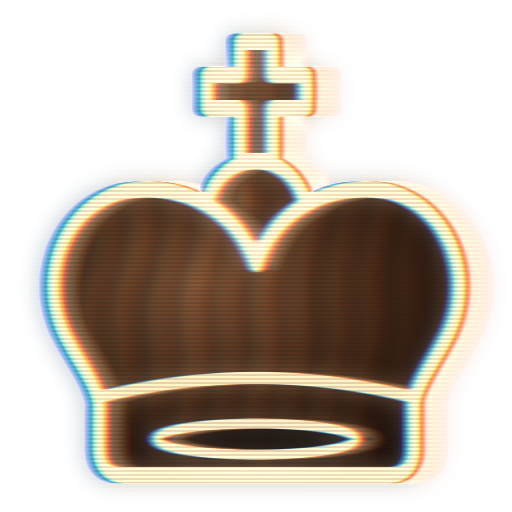
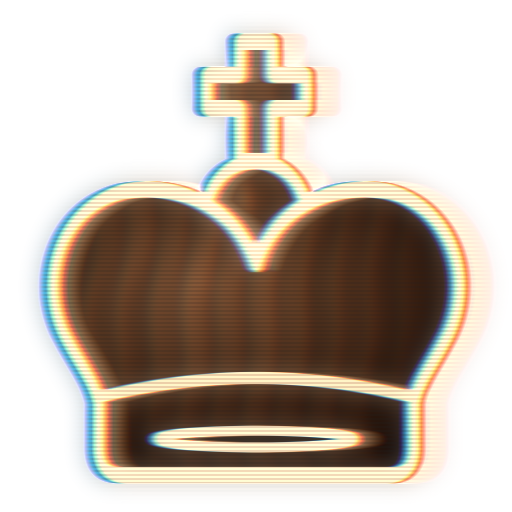
Thin the king's slot
Claude-Session: https://claude.ai/code/session_01CT1Vg17f3hVAVwgWoaKGNL

Changed region(s): [[0.2812, 0.8125, 0.7188, 0.9062]]

diff --git a/source/make_pieces.py b/source/make_pieces.py
@@ -120,7 +120,7 @@ def king():
         ("body", ell(50, 37, 9, 9.5)),                                                  # dome
         ("body", squeeze_x(body, K)),
         ("line", squeeze_x("M17,70 Q50,63 83,70", K)),                                # top of the band
-        ("slot", ell(50, 77.5, 21 * K, 2.8)),                                          # dark elliptical slot
+        ("slot", ell(50, 77.5, 21 * K, 1.5)),                                          # dark elliptical slot
     ]
 
 def queen():
